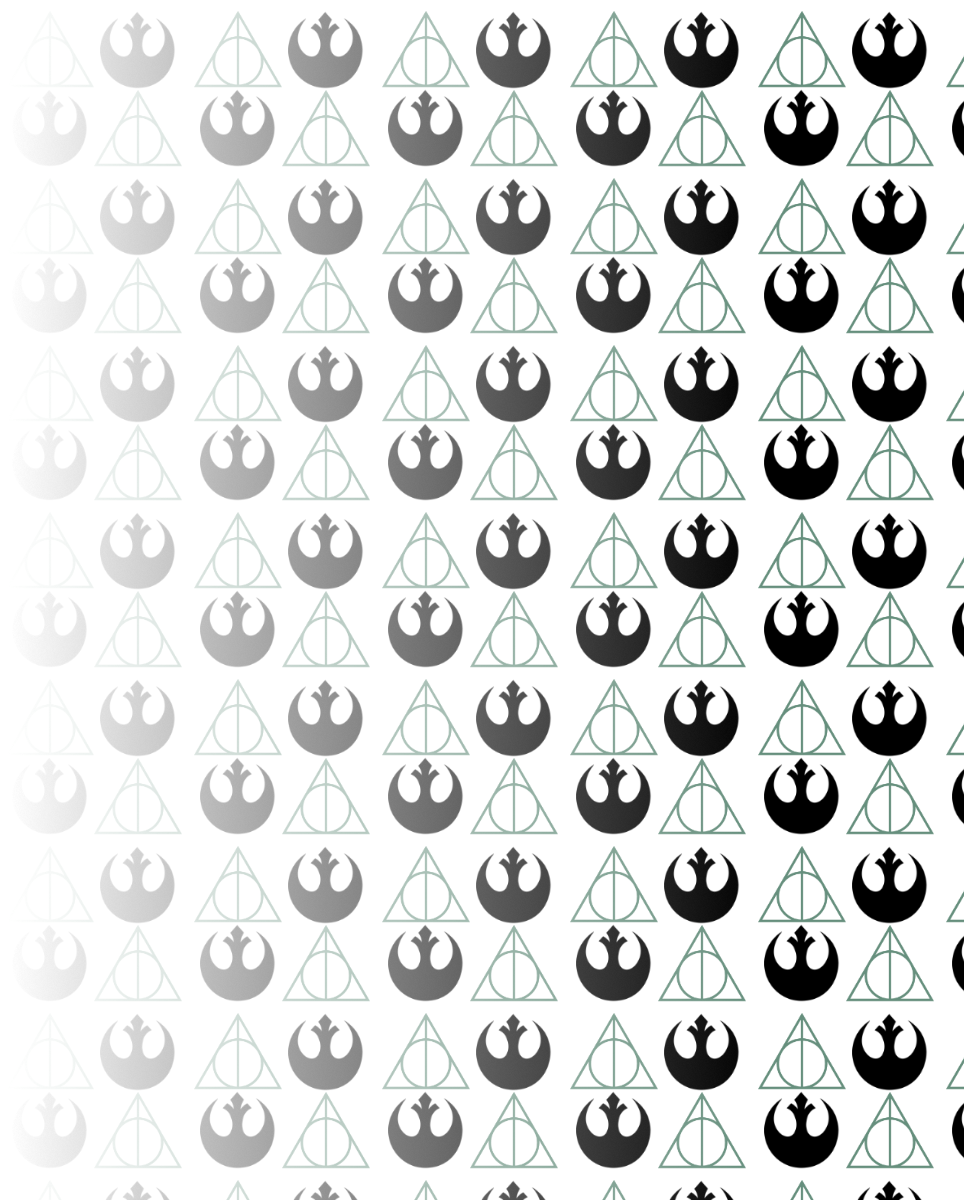
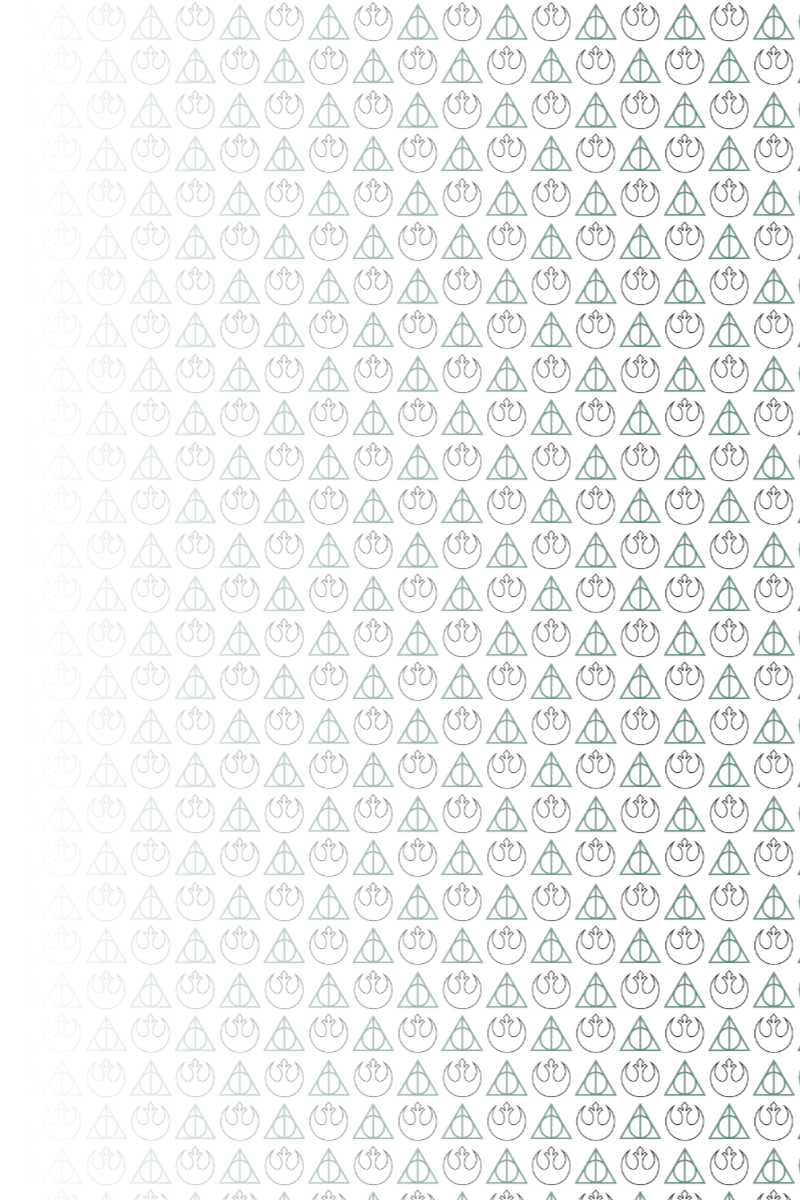
Change background

diff --git a/frontend/styles/_base.scss b/frontend/styles/_base.scss
@@ -25,7 +25,7 @@ $susy: (
     html {
          background: url("images/background.png") no-repeat;
          background-position: ($medium - $margin) 0;
-         background-size:  991px 1200px;
+         background-size:  800px 1200px;
          background-attachment: fixed;
     }
     #site-title {
